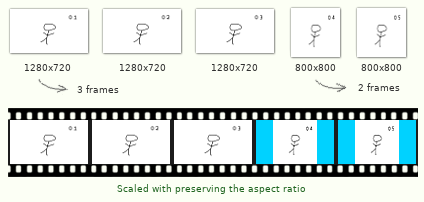
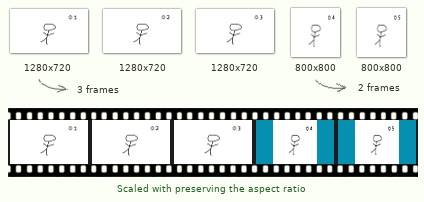
Background color #0590b0.

Changed region(s): [[0.7358, 0.5941, 0.8585, 0.8317], [0.9198, 0.5941, 0.9811, 0.8317], [0.5825, 0.5941, 0.6439, 0.8317]]

diff --git a/images_fix_resolution.py b/images_fix_resolution.py
@@ -101,7 +101,7 @@ def process():
                 subprocess.check_call(comand.format(target_resolution_string, f), shell = True)
             else:
                 print('c', end='')
-                comand = 'mogrify -background "#00d2ff" -resize {} -extent {} -gravity Center -quality 98 "{}"'
+                comand = 'mogrify -background "#0590b0" -resize {} -extent {} -gravity Center -quality 98 "{}"'
                 subprocess.check_call(comand.format(target_resolution_string, target_resolution_string, f), shell = True)
 
     print('\nStage 2 completed in {} seconds.\n'.format(time.time() - start_stage_2_time))
